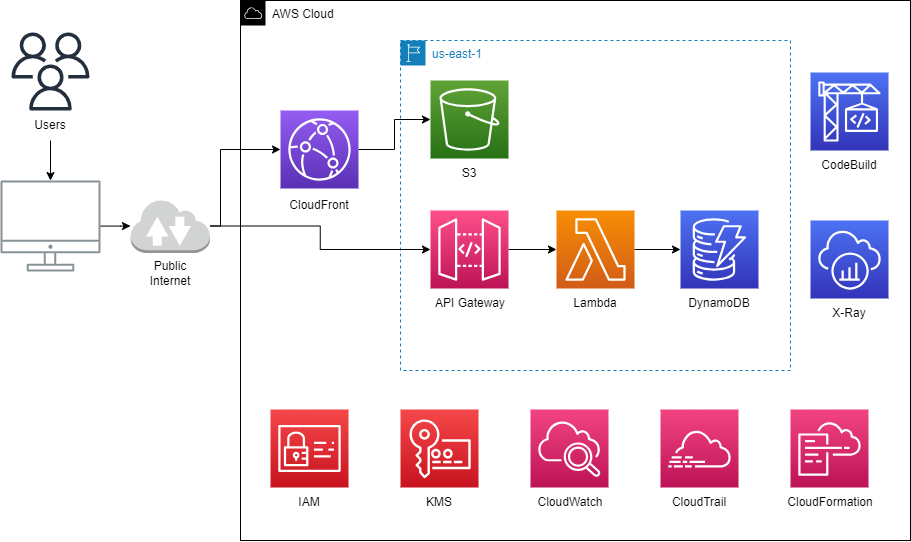
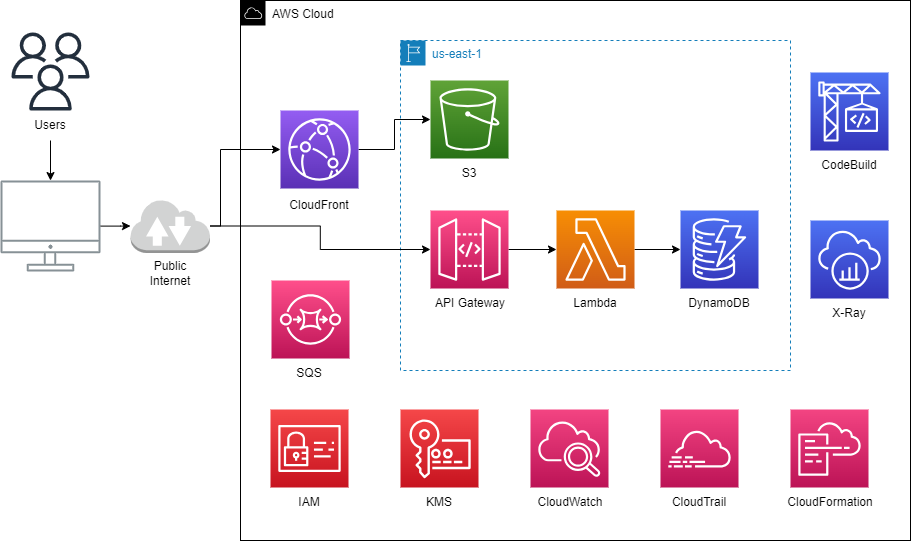
Add the DLQs to the architecture diagrams

diff --git a/microservices/ta-alerts/README.md b/microservices/ta-alerts/README.md
@@ -4,7 +4,7 @@
 
 ## About
 
-The TA Alerts microservice subscribes to Trusted Advisor errors and warnings using SNS. This ensures developers are following the best practices for cost optimization, performance, security, fault tolerance, and service limits. On a Basic or Developer support plan, this will notify you of service limits and _some_ security alerts. A Business support plan or higher is required to subscribe to all checks from Trusted Advisor.
+The TA Alerts microservice subscribes to Trusted Advisor errors and warnings using SNS. This ensures developers are following the best practices for cost optimization, performance, security, fault tolerance, and service limits. On a Basic or Developer support plan, this will notify you of service limits and _some_ security alerts. A Business support plan or higher is required to subscribe to all checks from Trusted Advisor. A dead-letter queue (DLQ) is used to catch any errors from EventBridge.
 
 ## Directions
 

diff --git a/README.md b/README.md
@@ -38,6 +38,7 @@ _Created using [draw.io](https://www.draw.io/?splash=0&libs=aws4)_
 - Information about all the AWS services is stored in a DynamoDB table. Global Secondary Indexes (GSIs) are used to help improve the performance of queries by certain filters, such as searching for services by price or category.
 - A Lambda function handles the logic by the client to perform the appropriate CRUD operations on the DynamoDB table.
 - The API is exposed to the client using API Gateway. An OpenAPI spec defines which endpoints the client can call and how API Gateway transforms the requests and responses from Lambda. Rate limiting is applied to prevent heavy usage of the API.
+- On failure, a dead-letter queue (DLQ) is used to collect error messages from Lambda.
 
 ## Pipeline Diagrams
 

diff --git a/microservices/iam-old/README.md b/microservices/iam-old/README.md
@@ -4,7 +4,7 @@
 
 ## About
 
-IAM Old is a service that checks the age of all the access keys for all IAM users daily. If the access key is 90 days old, an email is sent to remind the user to rotate their key.
+IAM Old is a service that checks the age of all the access keys for all IAM users daily. If the access key is 90 days old, an email is sent to remind the user to rotate their key. A dead-letter queue (DLQ) is used to catch any errors from EventBridge and Lambda.
 
 **Note:** This service doesn't automatically rotate access keys since the secret is only displayed once and must be saved on the user's machine. Run [rotate-access-key.sh](../../rotate-access-key.sh) to accomplish both tasks.
 

diff --git a/microservices/health-alerts/README.md b/microservices/health-alerts/README.md
@@ -4,7 +4,7 @@
 
 ## About
 
-The Health Alerts microservice subscribes to health events from AWS Health using SNS. If any of the services listed in `template.yaml` goes down in the us-east-1 region, you will get an email notifying you of the incident, allowing system administrators to promptly take action.
+The Health Alerts microservice subscribes to health events from AWS Health using SNS. If any of the services listed in `template.yaml` goes down in the us-east-1 region, you will get an email notifying you of the incident, allowing system administrators to promptly take action. A dead-letter queue (DLQ) is used to catch any errors from EventBridge.
 
 ## Directions
 
